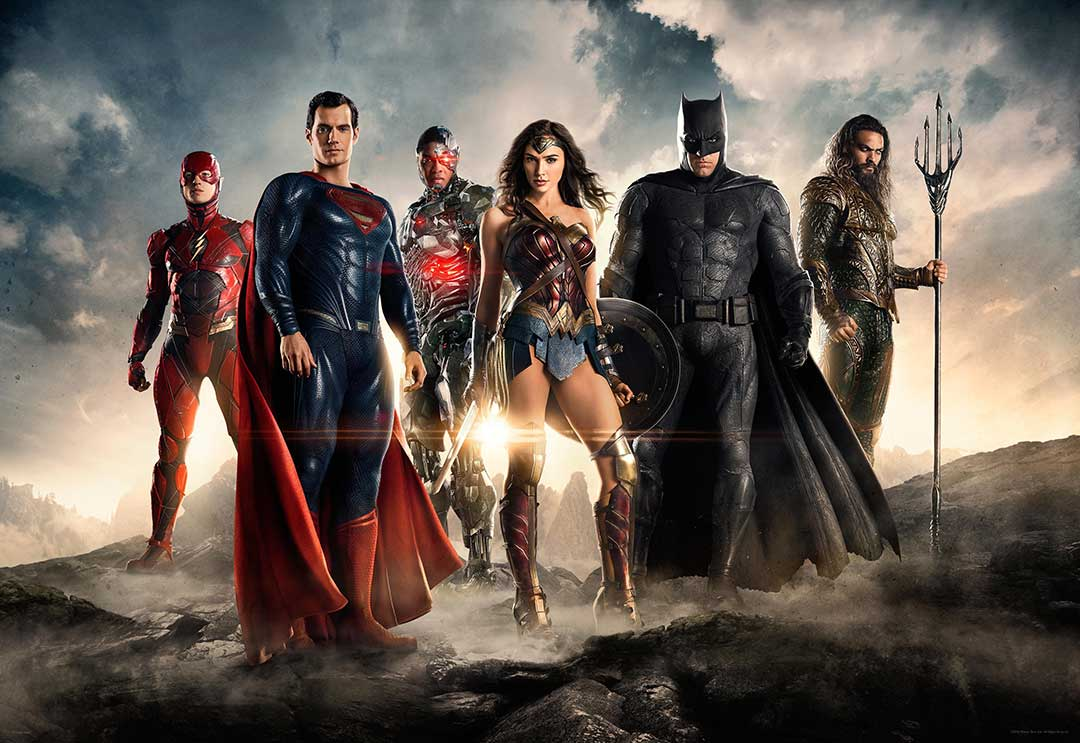
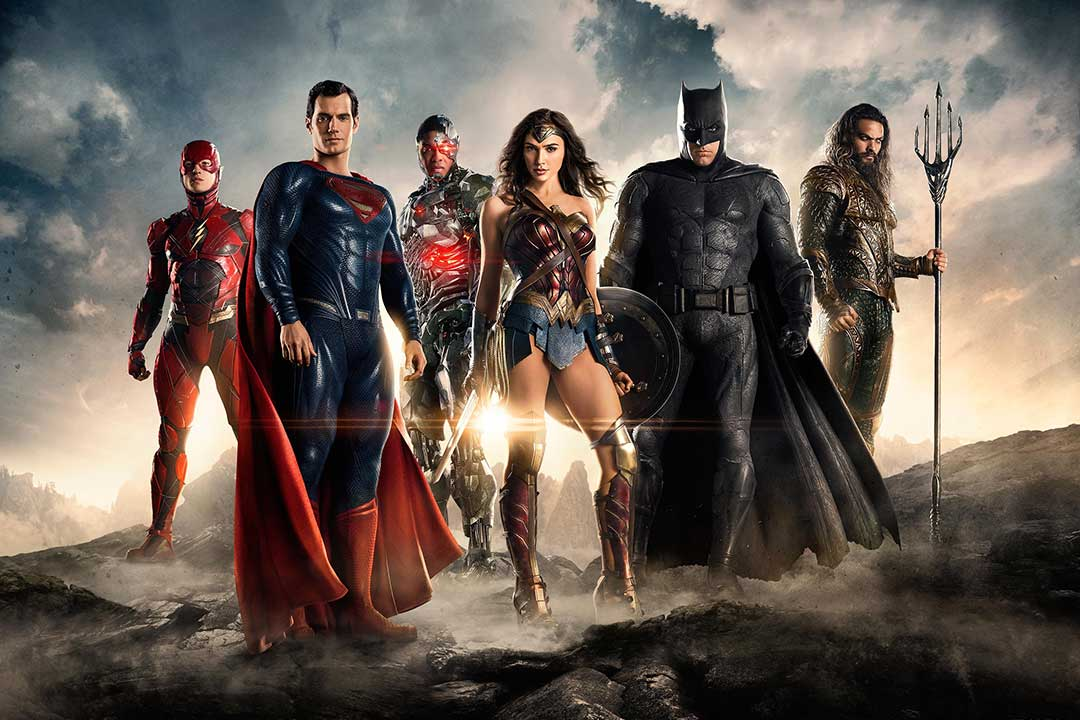
Resized images of latest 6 posts to be 1080x720, the new default dimension for images used for post image.

diff --git a/README.md b/README.md
@@ -15,7 +15,7 @@ Here are some helpful tips in creating a post, particularly in [front matter](ht
 
 ### Variables
 * `thumbnail` - width should be 300px.
-* `image` - width should be 600px or wider. Recommended: 800px.
+* `image` - width should be 600px or wider. Recommended: 1080px. Dimension of 1080x720.
 * `description` - should be filled out for better Twitter Cards and Facebook Graph posts (optional).
 * `header-img` - can be set for custom header image. Should be 1900px wide. Also dim the photo, maybe 1-3 exposure stops.
 
